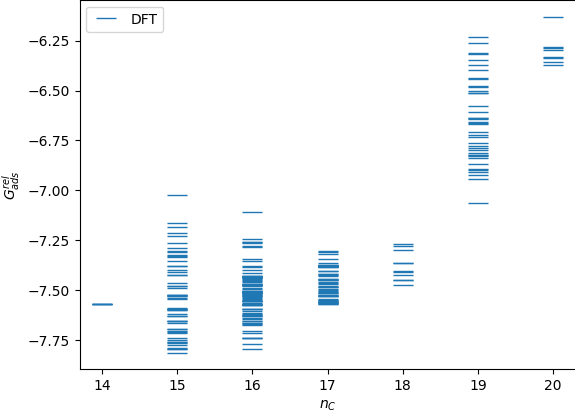
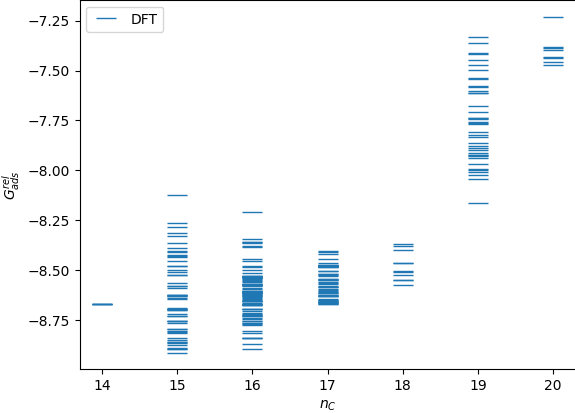
Add files via upload

diff --git a/basin_hopping_data/553/step_wandering/1ad/free_energy_plot.py b/basin_hopping_data/553/step_wandering/1ad/free_energy_plot.py
@@ -30,7 +30,7 @@ def e_corr(atoms):
 
 name = glob.glob('*.traj')[0]
 
-clean = -616.73
+clean = -615.82
 
 for mu_co in [-15.33, -15.5, -15.68]:
     

diff --git a/basin_hopping_data/553/step_wandering/2ad/free_energy_plot.py b/basin_hopping_data/553/step_wandering/2ad/free_energy_plot.py
@@ -30,7 +30,7 @@ def e_corr(atoms):
 
 name = glob.glob('*.traj')[0]
 
-clean = -616.73
+clean = -615.63
 
 for mu_co in [-15.33, -15.5, -15.68]:
     

diff --git a/basin_hopping_data/553/step_wandering/3ad/free_energy_plot.py b/basin_hopping_data/553/step_wandering/3ad/free_energy_plot.py
@@ -30,7 +30,7 @@ def e_corr(atoms):
 
 name = glob.glob('*.traj')[0]
 
-clean = -616.73
+clean = -615.07
 
 for mu_co in [-15.33, -15.5, -15.68]:
     
